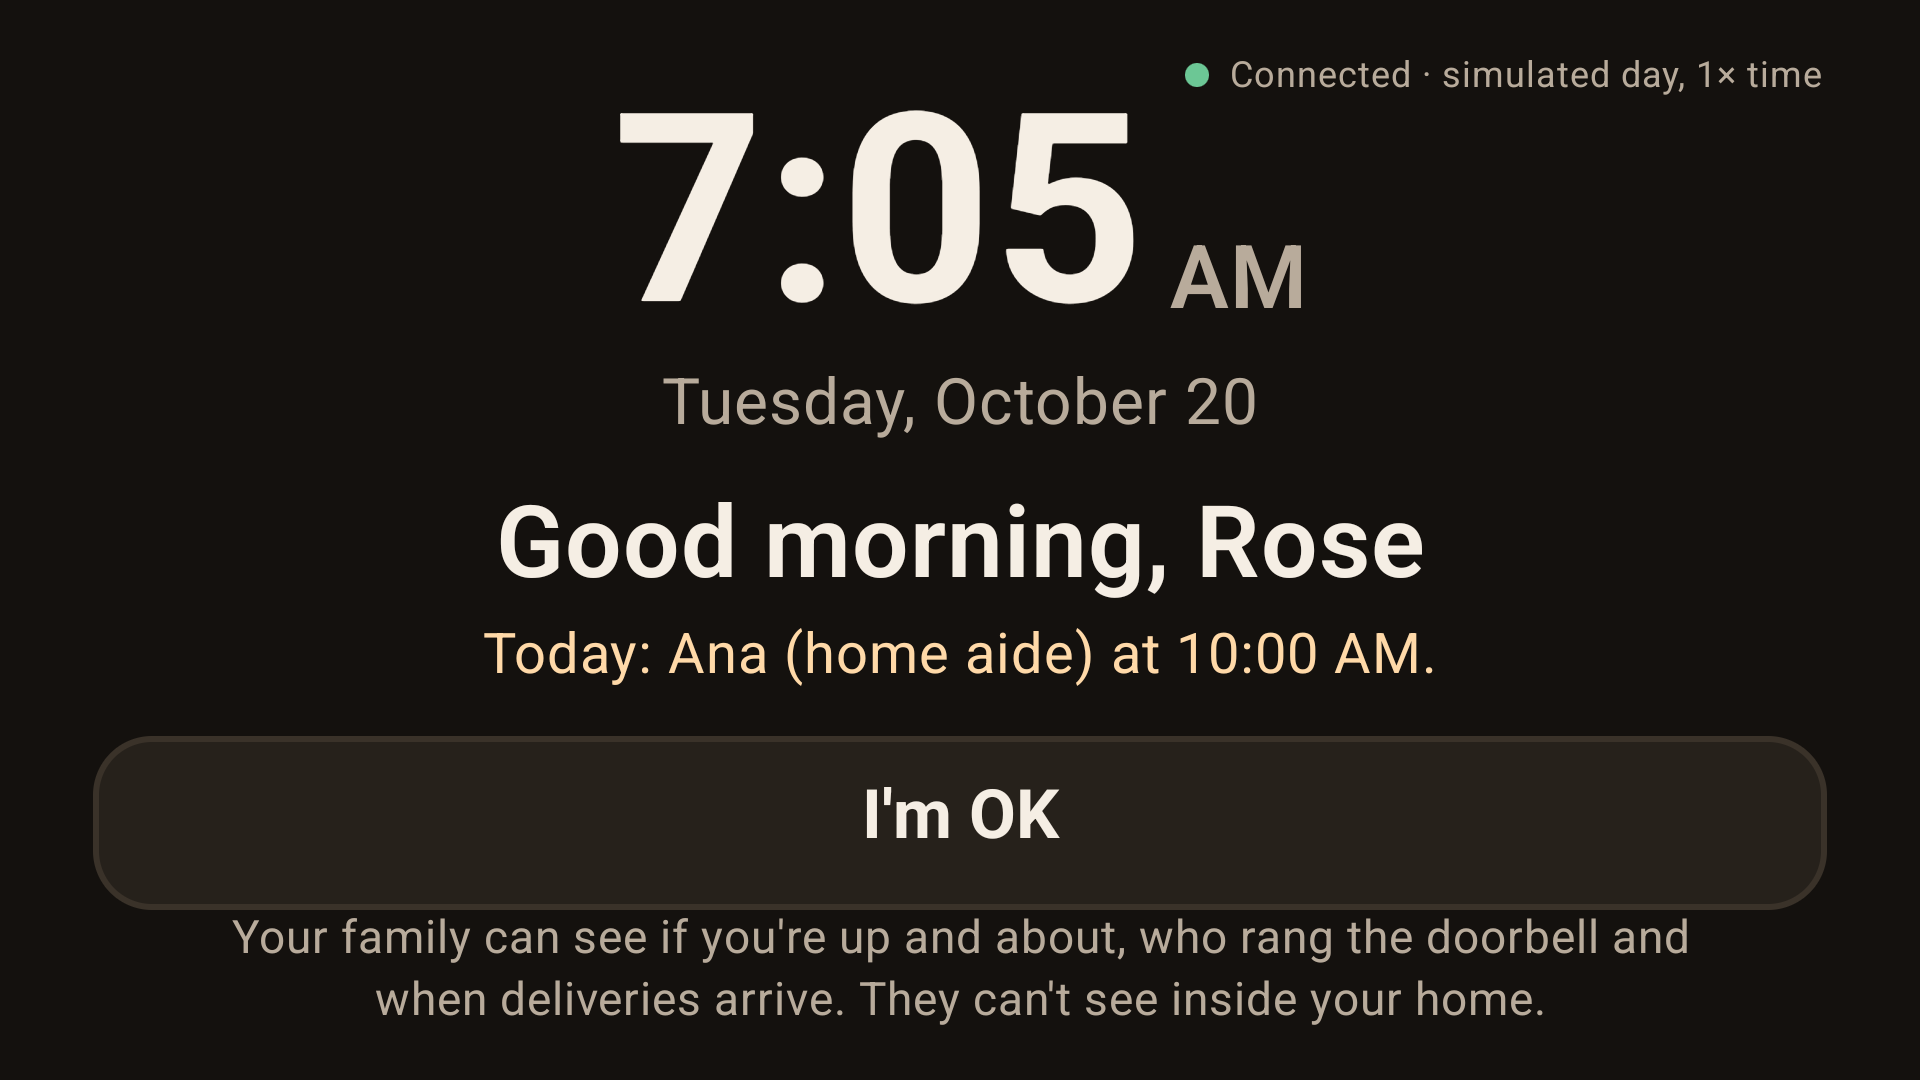
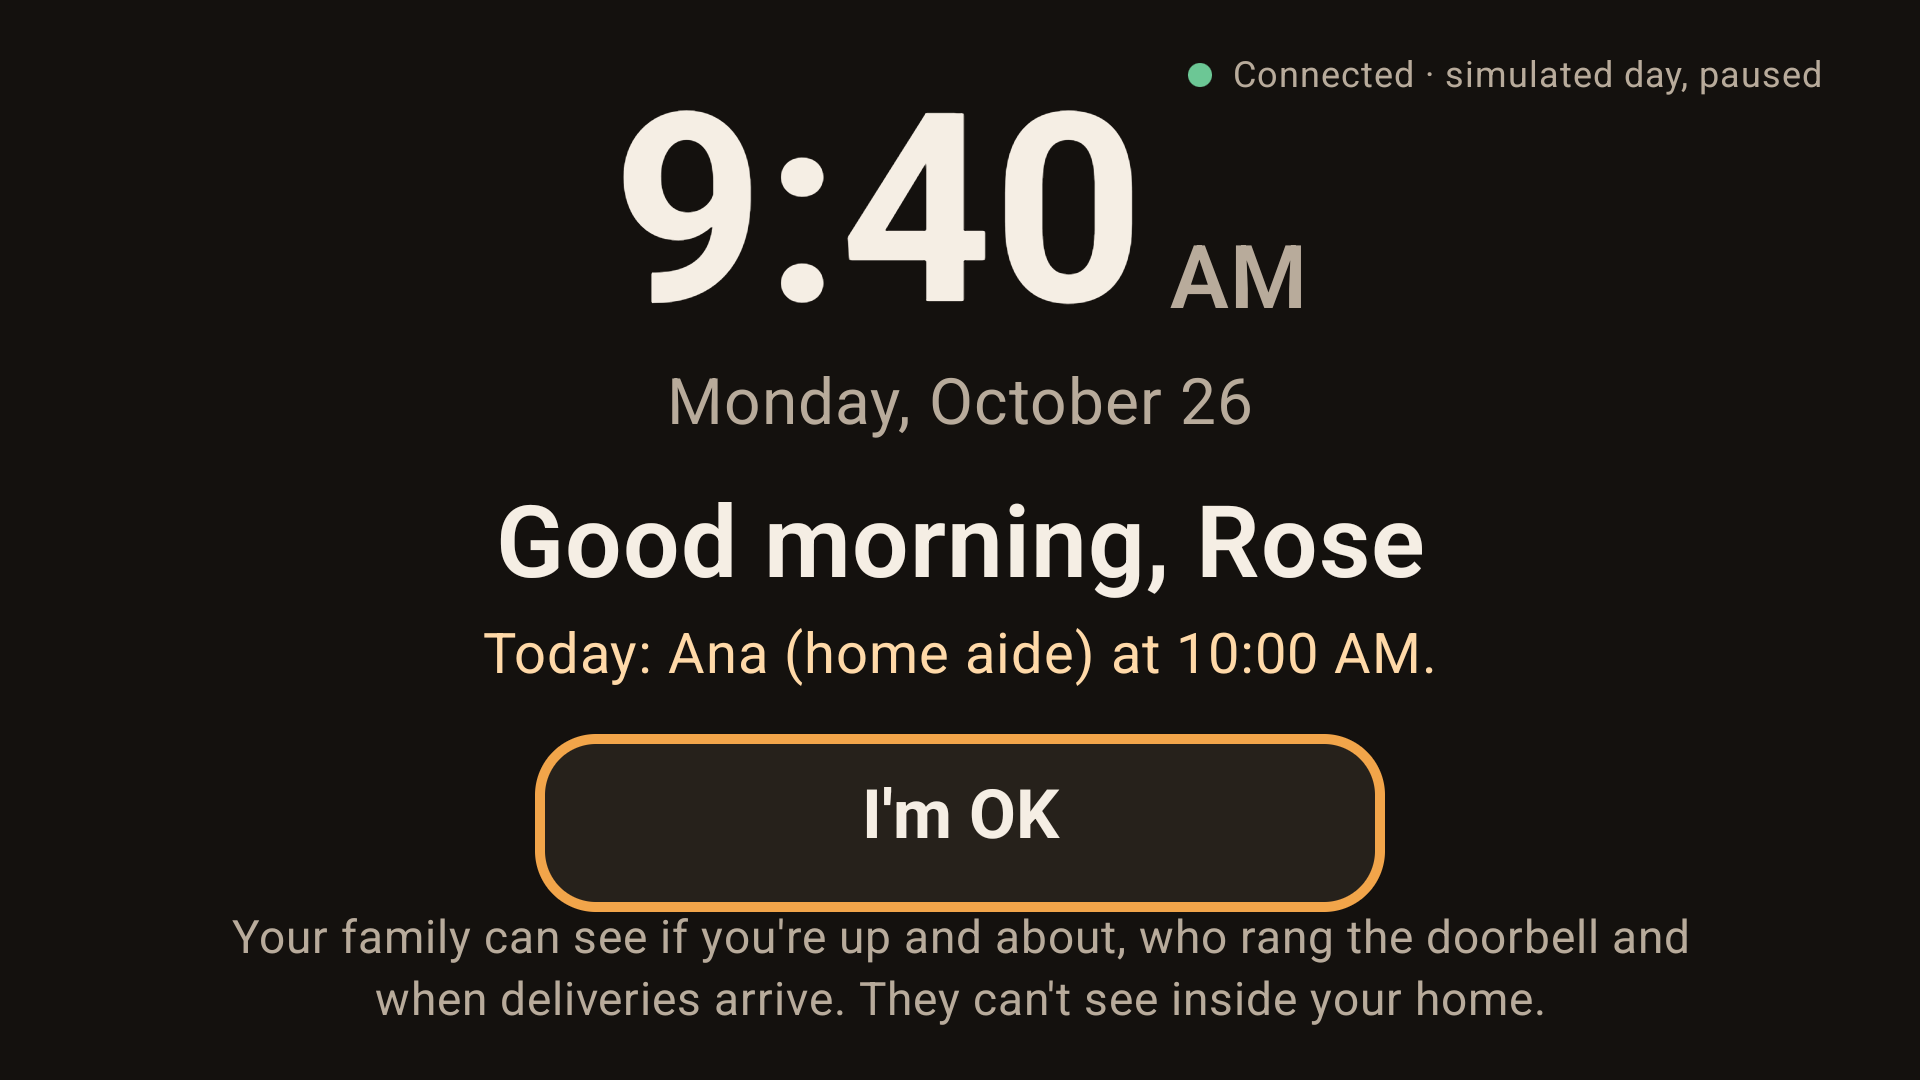
Show remote focus reliably on Porchlight TV's buttons
When the screen switched from the ambient clock to a check-in, the
button was focused but drawn unfocused: its look came from the
interaction stream, which can miss a focus request made as the screen
appears. The look now follows onFocusChanged. The ambient "I'm OK" is
sized to its label instead of spanning the screen.

New screenshots from the Android TV emulator: the package check-in,
the weekday ambient screen and the thank-you after OK.

diff --git a/apps/porchlight-tv/app/src/main/java/io/github/pswapnajit/porchlight/tv/ui/Screens.kt b/apps/porchlight-tv/app/src/main/java/io/github/pswapnajit/porchlight/tv/ui/Screens.kt
@@ -28,13 +28,16 @@ import androidx.compose.runtime.Composable
 import androidx.compose.runtime.DisposableEffect
 import androidx.compose.runtime.LaunchedEffect
 import androidx.compose.runtime.getValue
+import androidx.compose.runtime.mutableStateOf
 import androidx.compose.runtime.produceState
 import androidx.compose.runtime.remember
+import androidx.compose.runtime.setValue
 import androidx.compose.ui.Alignment
 import androidx.compose.ui.Modifier
 import androidx.compose.ui.draw.clip
 import androidx.compose.ui.focus.FocusRequester
 import androidx.compose.ui.focus.focusRequester
+import androidx.compose.ui.focus.onFocusChanged
 import androidx.compose.ui.layout.ContentScale
 import androidx.compose.ui.platform.LocalView
 import androidx.compose.ui.text.font.FontWeight
@@ -126,7 +129,8 @@ private fun Ambient(home: HomeState, now: ZonedDateTime, elapsed: Long, ui: TvUi
             Text(it, fontSize = 28.sp, color = Palette.accentInk)
         }
         Spacer(Modifier.height(26.dp))
-        PorchButton("I'm OK", onImOk, Modifier.focusRequester(focus), prominent = false)
+        // Sized to its label: the button's text fills its width, so uncapped it would span the screen.
+        PorchButton("I'm OK", onImOk, Modifier.focusRequester(focus).widthIn(max = 420.dp), prominent = false)
         ui.error?.let { Text(it, fontSize = 22.sp, color = Palette.warn, modifier = Modifier.padding(top = 10.dp)) }
         Spacer(Modifier.weight(1f))
         Text(PRIVACY_LINE, fontSize = 23.sp, lineHeight = 31.sp, color = Palette.muted, textAlign = TextAlign.Center, modifier = Modifier.widthIn(max = 780.dp))
@@ -244,22 +248,28 @@ private fun Status(ui: TvUi) {
 @Composable
 private fun PorchButton(text: String, onClick: () -> Unit, modifier: Modifier = Modifier, prominent: Boolean = true, minWidth: Dp = 380.dp, fontSize: TextUnit = 34.sp) {
     val shape = RoundedCornerShape(28.dp)
+    // The look follows onFocusChanged, not the button's interaction stream: a screen that requests focus as it
+    // appears can focus the button before that stream is collected, leaving it focused but drawn unfocused.
+    var focused by remember { mutableStateOf(false) }
+    val fill = if (focused && prominent) Palette.accent else Palette.surface2
+    val ink = if (focused && prominent) Palette.onAccent else Palette.ink
+    val ring = if (focused) Border(BorderStroke(5.dp, if (prominent) Palette.focusRing else Palette.accent), shape = shape) else Border(BorderStroke(3.dp, Palette.line), shape = shape)
     Button(
         onClick = onClick,
-        modifier = modifier.defaultMinSize(minWidth = minWidth, minHeight = 84.dp),
+        modifier = modifier.onFocusChanged { focused = it.isFocused }.defaultMinSize(minWidth = minWidth, minHeight = 84.dp),
         scale = ButtonDefaults.scale(scale = 1f, focusedScale = 1f, pressedScale = 1f),
         shape = ButtonDefaults.shape(shape = shape),
         colors = ButtonDefaults.colors(
-            containerColor = Palette.surface2,
-            contentColor = Palette.ink,
-            focusedContainerColor = if (prominent) Palette.accent else Palette.surface2,
-            focusedContentColor = if (prominent) Palette.onAccent else Palette.ink,
+            containerColor = fill,
+            contentColor = ink,
+            focusedContainerColor = fill,
+            focusedContentColor = ink,
             pressedContainerColor = Palette.accentInk,
             pressedContentColor = Palette.onAccent,
         ),
         border = ButtonDefaults.border(
-            border = Border(BorderStroke(3.dp, Palette.line), shape = shape),
-            focusedBorder = Border(BorderStroke(5.dp, if (prominent) Palette.focusRing else Palette.accent), shape = shape),
+            border = ring,
+            focusedBorder = ring,
             pressedBorder = Border(BorderStroke(5.dp, Palette.focusRing), shape = shape),
         ),
         contentPadding = PaddingValues(horizontal = 48.dp, vertical = 18.dp),
